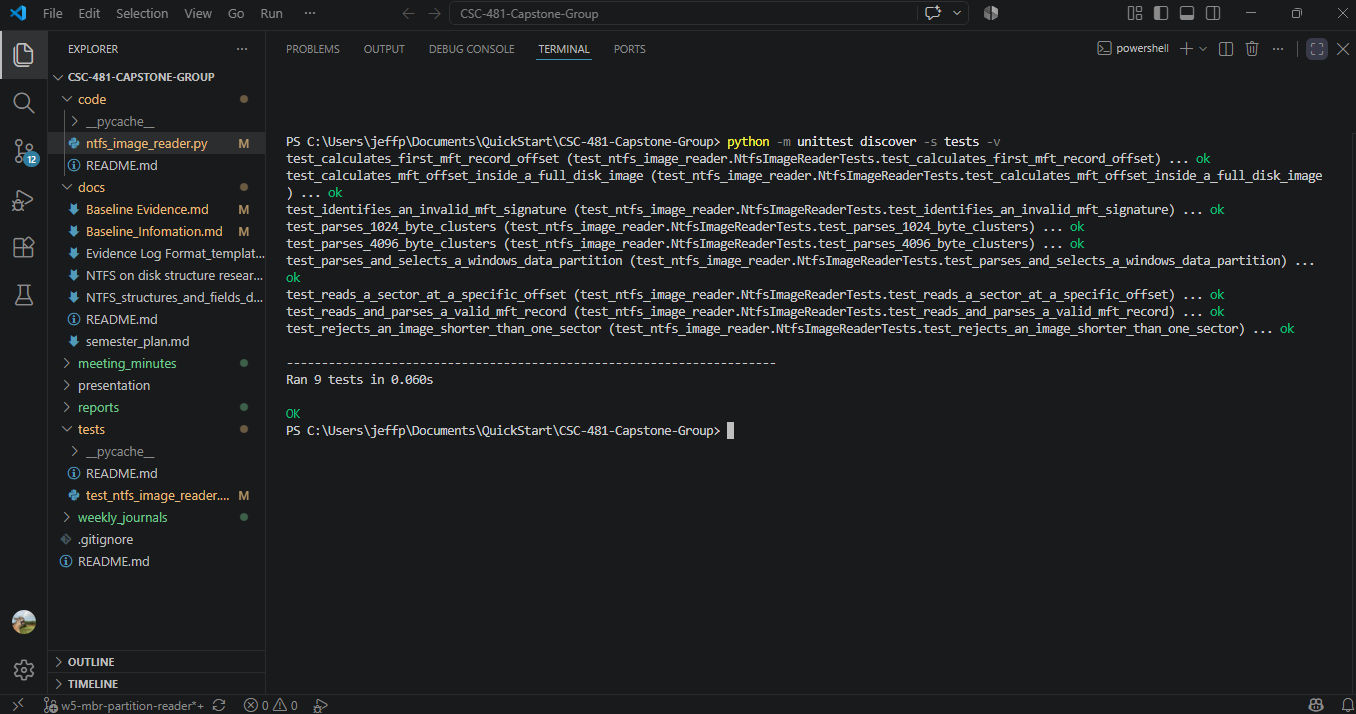
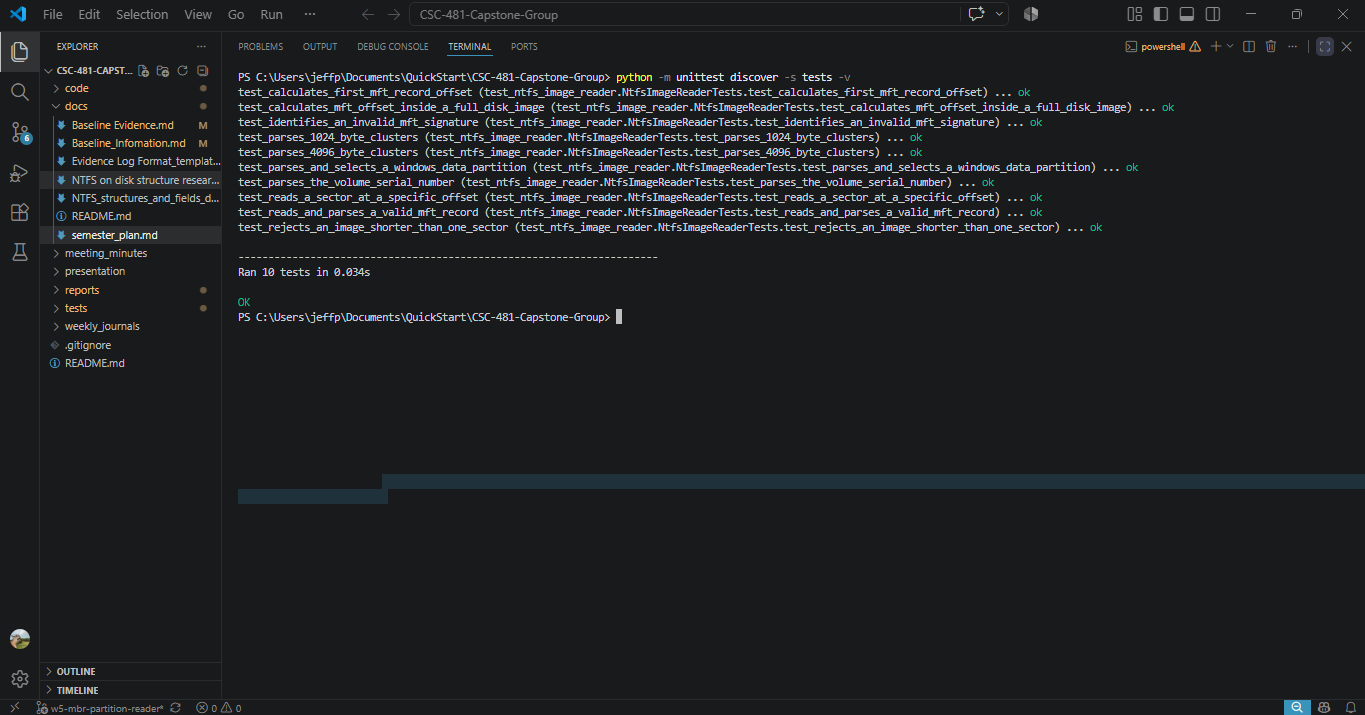
W5: Add volume serial validation and refresh evidence

diff --git a/tests/test_ntfs_image_reader.py b/tests/test_ntfs_image_reader.py
@@ -27,7 +27,11 @@ from ntfs_image_reader import (
 
 
 def make_boot_sector(
-    *, bytes_per_sector: int, sectors_per_cluster: int, mft_lcn: int
+    *,
+    bytes_per_sector: int,
+    sectors_per_cluster: int,
+    mft_lcn: int,
+    volume_serial: bytes = b"\x01\x02\x03\x04\x05\x06\x07\x08",
 ) -> bytes:
     """Create a minimal, harmless NTFS-shaped sector for parser testing."""
     sector = bytearray(BOOT_SECTOR_SIZE)
@@ -38,6 +42,7 @@ def make_boot_sector(
     sector[0x30:0x38] = mft_lcn.to_bytes(8, byteorder="little")
     sector[0x38:0x40] = (4).to_bytes(8, byteorder="little")
     sector[0x40] = 1
+    sector[0x48:0x50] = volume_serial
     sector[0x1FE:0x200] = b"\x55\xAA"
     return bytes(sector)
 
@@ -87,6 +92,18 @@ class NtfsImageReaderTests(unittest.TestCase):
         self.assertEqual(result["bytes_per_cluster"], 4096)
         self.assertEqual(result["mft_start_lcn"], 786_432)
         self.assertEqual(result["mft_record_size"], 4096)
+
+    def test_parses_the_volume_serial_number(self) -> None:
+        sector = make_boot_sector(
+            bytes_per_sector=512,
+            sectors_per_cluster=8,
+            mft_lcn=786_432,
+            volume_serial=b"\x12\x34\x56\x78\x9A\xBC\xDE\xF0",
+        )
+
+        result = parse_ntfs_boot_sector(sector)
+
+        self.assertEqual(result["volume_serial"], "F0DEBC9A78563412")
 
     def test_rejects_an_image_shorter_than_one_sector(self) -> None:
         with tempfile.TemporaryDirectory() as directory:

diff --git a/code/ntfs_image_reader.py b/code/ntfs_image_reader.py
@@ -125,6 +125,7 @@ def parse_ntfs_boot_sector(sector: bytes) -> dict[str, int | str | bool]:
         "mft_start_lcn": int.from_bytes(sector[0x30:0x38], byteorder="little"),
         "mft_mirror_lcn": int.from_bytes(sector[0x38:0x40], byteorder="little"),
         "mft_record_size": mft_record_size,
+        "volume_serial": f"{int.from_bytes(sector[0x48:0x50], byteorder='little'):016X}",
         "boot_signature_valid": sector[0x1FE:0x200] == b"\x55\xAA",
     }
 
@@ -185,6 +186,7 @@ def print_boot_sector_summary(boot_sector: dict[str, int | str | bool]) -> None:
     print(f"  MFT start LCN:        {boot_sector['mft_start_lcn']}")
     print(f"  MFT mirror LCN:       {boot_sector['mft_mirror_lcn']}")
     print(f"  MFT record size:      {boot_sector['mft_record_size']} bytes")
+    print(f"  Volume serial:        {boot_sector['volume_serial']}")
     print(f"  Boot signature valid: {boot_sector['boot_signature_valid']}")
 
 

diff --git a/reports/weekly_report_05.md b/reports/weekly_report_05.md
@@ -31,7 +31,7 @@ rather than an image that begins directly with an NTFS volume.
 | Jeff Perez | MBR partition parser | Added parsing for populated MBR partition entries and selection of the first `0x07` Windows data partition. |
 | Jeff Perez | Offset-based sector reader | Added a read-only function that reads a sector at a specified byte offset. |
 | Jeff Perez | Full-disk MFT calculation | Added the NTFS partition offset to the MFT’s volume-relative location before reading MFT record 0. |
-| Jeff Perez | Automated tests | Added tests for MBR partition parsing, reading at a byte offset, and calculating an absolute MFT offset. The suite has nine passing tests. |
+| Jeff Perez | Automated tests | Added tests for MBR partition parsing, reading at a byte offset, calculating an absolute MFT offset, and decoding the volume serial number. The suite has 10 passing tests. |
 | Lucas Curtis | Baseline-image remediation | **[Lucas: confirm the image-creation steps and add your specific contribution.]** |
 | Lucas Curtis | Image transfer and integrity information | **[Lucas: confirm the transfer method and any creation/verification details you performed.]** |
 
@@ -74,6 +74,7 @@ Bytes per cluster:    4096
 MFT start LCN:        786432
 Byte offset:          3222274048
 FILE signature valid: True
+Volume serial:        461C98171C9803D9
 ```
 
 **Demo screenshot — successful full-disk MFT reader run**
@@ -84,8 +85,9 @@ FILE signature valid: True
 
 **Expected:** The reader should continue to parse volume-only images, reject an
 incomplete sector, validate MFT headers, parse an MBR partition, read a sector
-at an offset, and calculate the absolute MFT offset in a full-disk image.  
-**Result:** Passed; 9 of 9 tests passed.
+at an offset, calculate the absolute MFT offset in a full-disk image, and
+decode an NTFS volume serial number.  
+**Result:** Passed; 10 of 10 tests passed.
 
 ```text
 test_calculates_first_mft_record_offset ... ok
@@ -94,17 +96,18 @@ test_identifies_an_invalid_mft_signature ... ok
 test_parses_1024_byte_clusters ... ok
 test_parses_4096_byte_clusters ... ok
 test_parses_and_selects_a_windows_data_partition ... ok
+test_parses_the_volume_serial_number ... ok
 test_reads_a_sector_at_a_specific_offset ... ok
 test_reads_and_parses_a_valid_mft_record ... ok
 test_rejects_an_image_shorter_than_one_sector ... ok
 
-Ran 9 tests
+Ran 10 tests
 OK
 ```
 
 **Demo screenshot — automated test results**
 
-![VS Code terminal showing the nine NTFS-reader tests passing.](evidence/week5/w5_automated_tests.png)
+![VS Code terminal showing the 10 NTFS-reader tests passing.](evidence/week5/w5_automated_tests.png)
 
 ### Test 4: SHA-256 integrity verification
 

diff --git a/reports/evidence/week5/README.md b/reports/evidence/week5/README.md
@@ -8,6 +8,6 @@ Week 5 tests. Each screenshot includes the relevant command and final result.
 | `w5_ntfs_partition_identifier.png` | Manual PowerShell check reading the sector at byte offset 1,048,576 and showing the `NTFS` identifier. |
 | `w5_ntfs_boot_sector_fields.png` | Manual PowerShell check showing 512-byte sectors, 8 sectors per cluster, 4,096-byte clusters, MFT start LCN 786,432, and a valid boot signature. |
 | `w5_full_disk_mft_reader.png` | The `python code/ntfs_image_reader.py ...Unencrypted_RAW.dd` command and the MBR partition summary, valid NTFS boot-sector summary, and valid `FILE` MFT record result. |
-| `w5_automated_tests.png` | The `python -m unittest discover -s tests -v` command and all nine tests passing. |
+| `w5_automated_tests.png` | The `python -m unittest discover -s tests -v` command and all 10 tests passing. |
 
 All four listed Week 5 screenshots have been added.

diff --git a/weekly_journals/2026-09-20_jeff_perez.md b/weekly_journals/2026-09-20_jeff_perez.md
@@ -16,10 +16,12 @@
 - Extended the read-only Python parser so it can identify an MBR partition,
   read the NTFS boot sector at the correct offset, and calculate an absolute
   MFT record location in a full-disk image.
-- Added three automated tests for the full-disk support. The test suite now has
-  nine passing tests.
+- Added three automated tests for the full-disk support and one test for NTFS
+  volume-serial decoding. The test suite now has 10 passing tests.
 - Ran the updated program on the unencrypted image. It located MFT record 0
   (`$Mft`) at byte offset 3,222,274,048 and validated its `FILE` signature.
+- Extended the boot-sector output to report the NTFS volume serial number:
+  `461C98171C9803D9`.
 
 ## What I learned
 

diff --git a/docs/Baseline Evidence.md b/docs/Baseline Evidence.md
@@ -33,4 +33,5 @@
   (`0x07`, start LBA 2,048), verified the NTFS boot sector at byte offset
   1,048,576, calculated the absolute `$Mft` offset, and read MFT record 0.
 - **Findings:** NTFS boot signature valid; 4,096-byte clusters; MFT record 0 at
-  byte offset 3,222,274,048; valid `FILE` record signature.
+  byte offset 3,222,274,048; valid `FILE` record signature; volume serial
+  number `461C98171C9803D9`.

diff --git a/docs/Baseline_Infomation.md b/docs/Baseline_Infomation.md
@@ -33,6 +33,7 @@ verified the NTFS boot sector and successfully read MFT record 0 (`$Mft`).
 | MFT start LCN | 786,432 |
 | Absolute MFT record 0 offset | 3,222,274,048 bytes |
 | MFT record signature | `FILE` (valid) |
+| NTFS volume serial number | `461C98171C9803D9` |
 
 ## Earlier image and remediation
 
